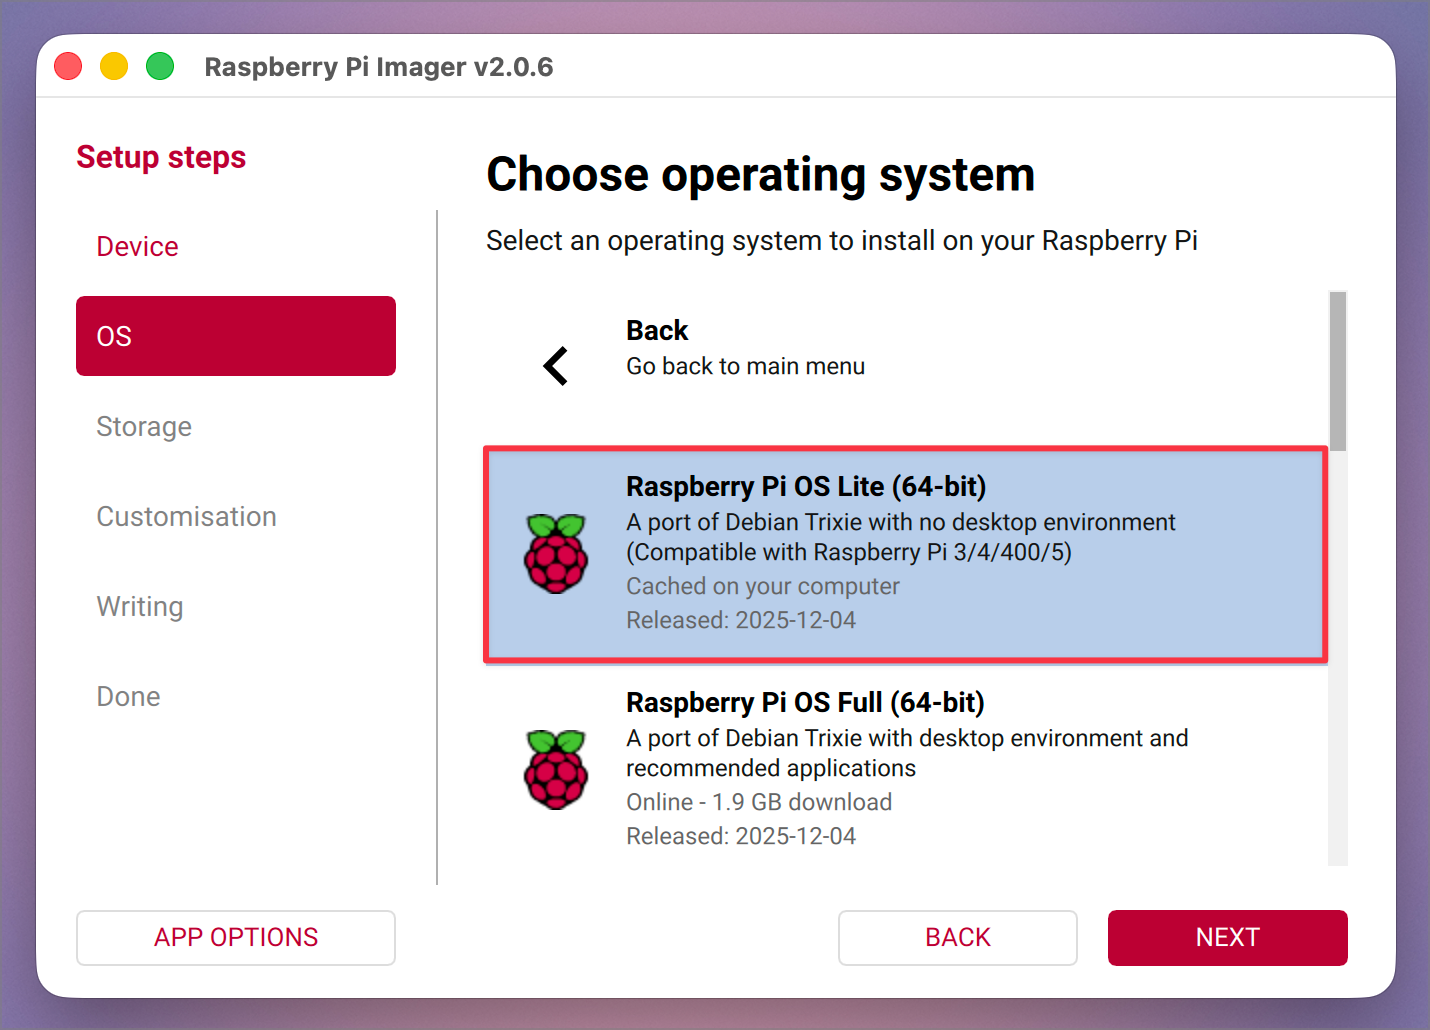
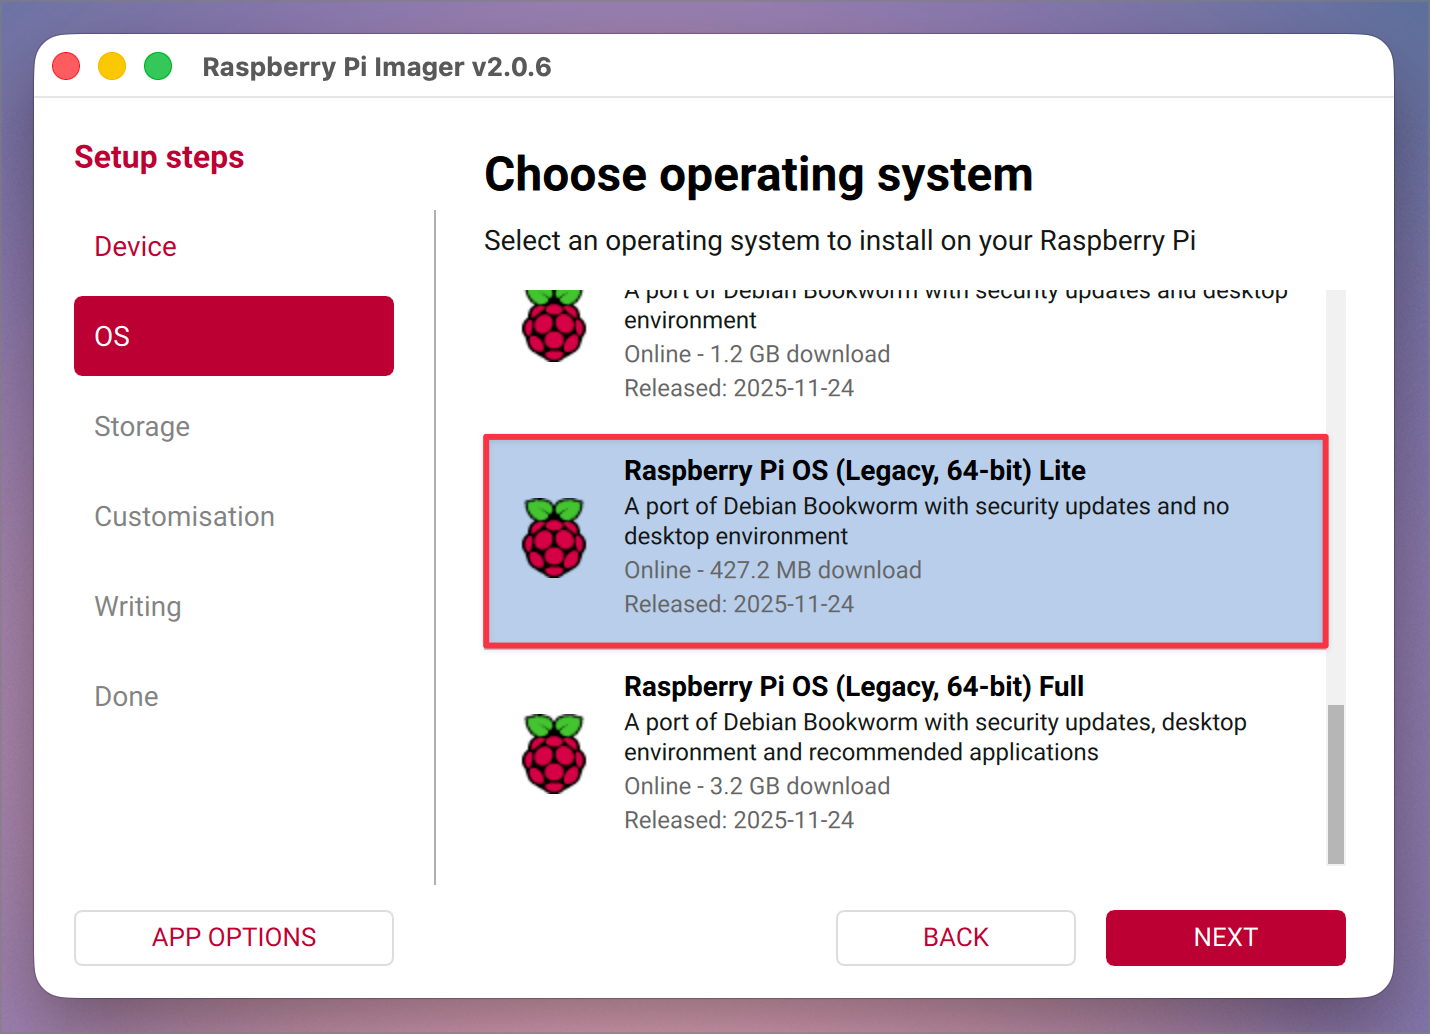
Clarify camera naming and OS selection in README for better understanding

diff --git a/README.md b/README.md
@@ -35,6 +35,14 @@ This is written for curious hobbyists *and* technical folks. If something feels 
 - Stable power supply  
 - Outdoor enclosure (optional, later)
 
+> **Note on naming**
+>
+> Raspberry Pi refers to this camera as the *Camera Module 3 Wide NoIR*
+> (meaning it has no infrared filter).
+>  
+> In this guide, we sometimes shorten this to “IR” to describe its function
+> (infrared-sensitive). Both refer to the same camera.
+
 ---
 
 ## OS + Raspberry Pi Imager settings
@@ -58,7 +66,7 @@ Even if you’ve done this before, it’s worth slowing down here — a couple o
 - A microSD card reader
 - Raspberry Pi Imager (free)
 
-Download Raspberry Pi Imager from:
+Download Raspberry Pi Imager from:  
 https://www.raspberrypi.com/software/
 
 ---
@@ -89,19 +97,37 @@ This is where the Lite (64-bit) images live.
 
 ---
 
-### Step 3: Choose Raspberry Pi OS Lite (64-bit)
+### Step 3: Choose Raspberry Pi OS **(Legacy, 64-bit) Lite**
 
 From the list of available OS images, select:
 
-- **Raspberry Pi OS Lite (64-bit)**
+- **Raspberry Pi OS (Legacy, 64-bit) Lite**
 
-![Raspberry Pi OS Lite (64-bit) selected](docs/images/03-imager-os-lite-64bit.png)
+![Raspberry Pi OS (Legacy, 64-bit) Lite selected](docs/images/03-imager-os-lite-64bit.png)
 
-Why Lite + 64-bit?
+> ⚠ **Important: choose “Legacy” on purpose**
+>
+> Raspberry Pi Imager may also show a newer **Raspberry Pi OS Lite (64-bit)** option *without* the word “Legacy”.
+> That newer option is based on **Debian 13 (Trixie)**.
+>
+> While Debian 13 is newer, **indi-allsky does not currently provide prebuilt INDI packages for it**.
+> Using it requires manually compiling INDI, which adds complexity and time.
+>
+> To keep this guide beginner-friendly and predictable, we intentionally use  
+> **Debian 12 (Bookworm)** via the **Legacy** option.
+
+#### Why Lite + 64-bit?
 
 - No desktop overhead
-- Better performance
-- Better Python support (important for indi-allsky)
+- Better performance on a headless Pi
+- Better Python compatibility
+- Fully supported by indi-allsky’s setup scripts
+
+> 💡 **Mental model**
+>
+> Think of **“Legacy”** here as **“stable and well-supported”**, not “outdated”.
+
+Choosing this option avoids extra build steps and makes the installation much smoother.
 
 ---
 
